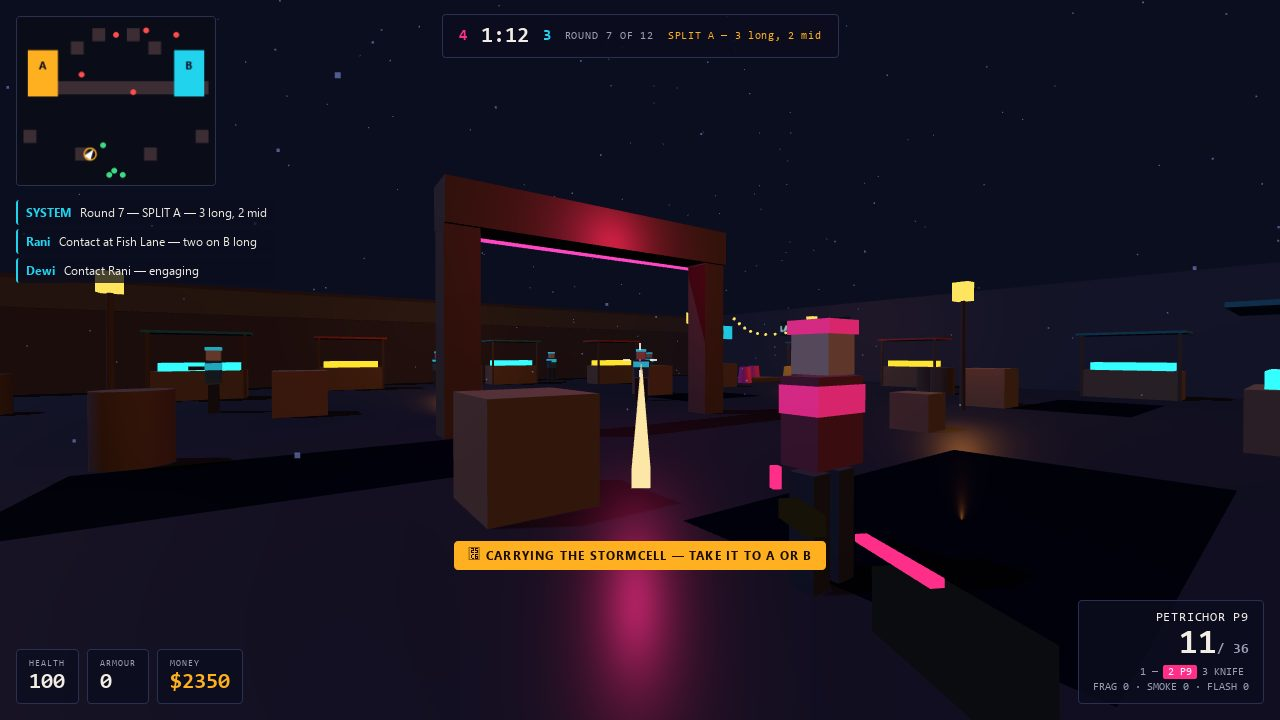
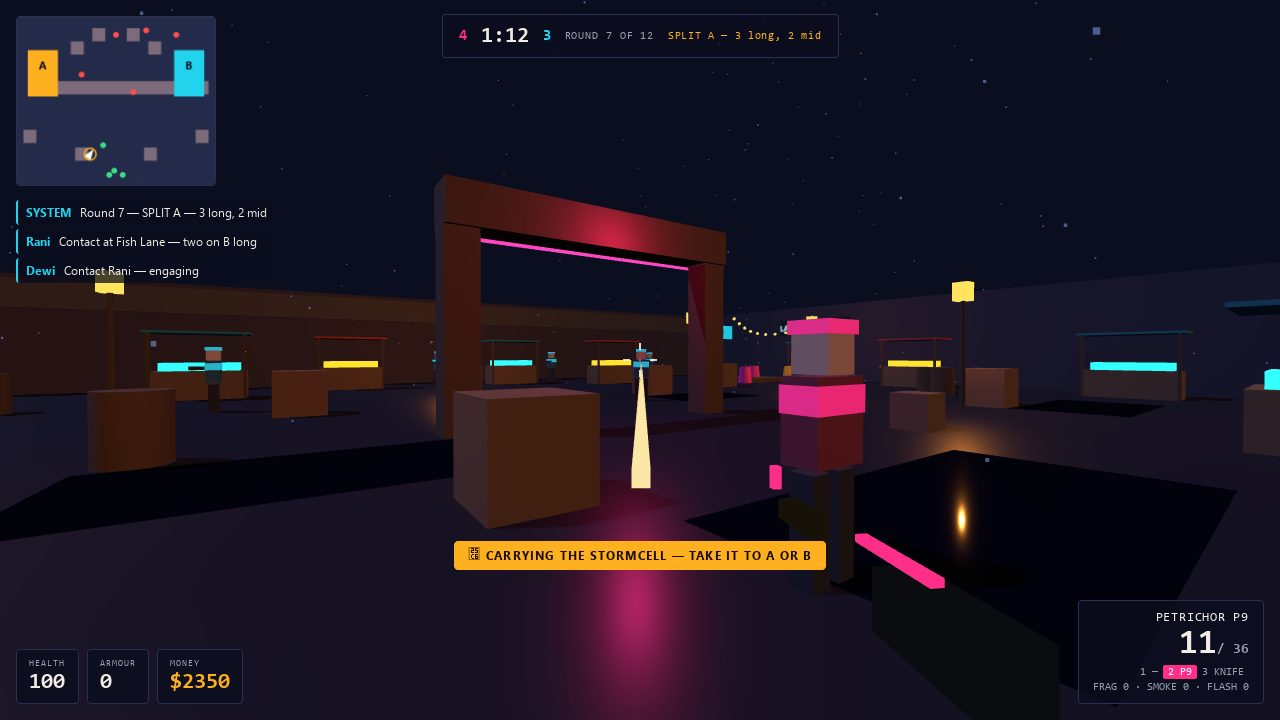
Fix: spawn faces the market (was facing back wall), brighter night lighting, readable minimap

diff --git a/game/src/map.js b/game/src/map.js
@@ -89,7 +89,7 @@ export function createMap(scene) {
     const lamp = box(0.42, 0.55, 0.42, x, 3.5, z, lanternMat, false);
     lamp.castShadow = false;
     if (withLight) {
-      const light = new THREE.PointLight(new THREE.Color(PALETTE.lantern), 10, 12, 1.8);
+      const light = new THREE.PointLight(new THREE.Color(PALETTE.lantern), 14, 15, 1.8);
       light.position.set(x, 3.3, z);
       scene.add(light);
       lights.push(light);
@@ -215,10 +215,10 @@ export function createMap(scene) {
     group.add(bulb);
   }
 
-  // --- lights: moon + sky ---
-  const sky = new THREE.HemisphereLight(new THREE.Color('#3a4a7a'), new THREE.Color('#141828'), 1.5);
+  // --- lights: moon + sky (bright enough that no corner is pitch black) ---
+  const sky = new THREE.HemisphereLight(new THREE.Color('#3a4a7a'), new THREE.Color('#141828'), 2.4);
   scene.add(sky);
-  const ambient = new THREE.AmbientLight(new THREE.Color('#2a3050'), 0.5);
+  const ambient = new THREE.AmbientLight(new THREE.Color('#2a3050'), 1.1);
   scene.add(ambient);
   const moon = new THREE.DirectionalLight(new THREE.Color('#8fa8ff'), 2.2);
   moon.position.set(-14, 22, -8);
@@ -232,7 +232,7 @@ export function createMap(scene) {
   moon.shadow.camera.far = 60;
   moon.shadow.bias = -0.0006;
   scene.add(moon, moon.target);
-  const warm = new THREE.DirectionalLight(new THREE.Color('#ffb27a'), 0.85);
+  const warm = new THREE.DirectionalLight(new THREE.Color('#ffb27a'), 1.4);
   warm.position.set(10, 12, 14);
   scene.add(warm);
 

diff --git a/game/src/hud.js b/game/src/hud.js
@@ -164,9 +164,9 @@ export function createHud(minimapData, callbacks) {
       const px = (x) => ((x - minX) / (maxX - minX)) * W;
       const pz = (z) => ((z - minZ) / (maxZ - minZ)) * H;
       c.clearRect(0, 0, W, H);
-      c.fillStyle = 'rgba(10, 12, 24, 0.85)';
+      c.fillStyle = 'rgba(38, 46, 78, 0.94)';
       c.fillRect(0, 0, W, H);
-      c.fillStyle = '#3b2d33';
+      c.fillStyle = '#7d6a7a';
       for (const [x1, z1, x2, z2] of blocks) c.fillRect(px(x1), pz(z1), px(x2) - px(x1), pz(z2) - pz(z1));
       c.font = 'bold 11px system-ui, sans-serif';
       c.textAlign = 'center';

diff --git a/game/src/main.js b/game/src/main.js
@@ -286,7 +286,7 @@ const rounds = createRounds(G, {
     const spawn = player.team === 'attack' ? map.spawns.attack[2] : map.spawns.defend[2];
     player.body.position.set(spawn[0], 0, spawn[1]);
     player.body.velocity.set(0, 0, 0);
-    player.body.yaw = player.team === 'attack' ? Math.PI : 0;
+    player.body.yaw = player.team === 'attack' ? 0 : Math.PI;
     player.body.pitch = 0;
     player.hp = 100;
     player.alive = true;
